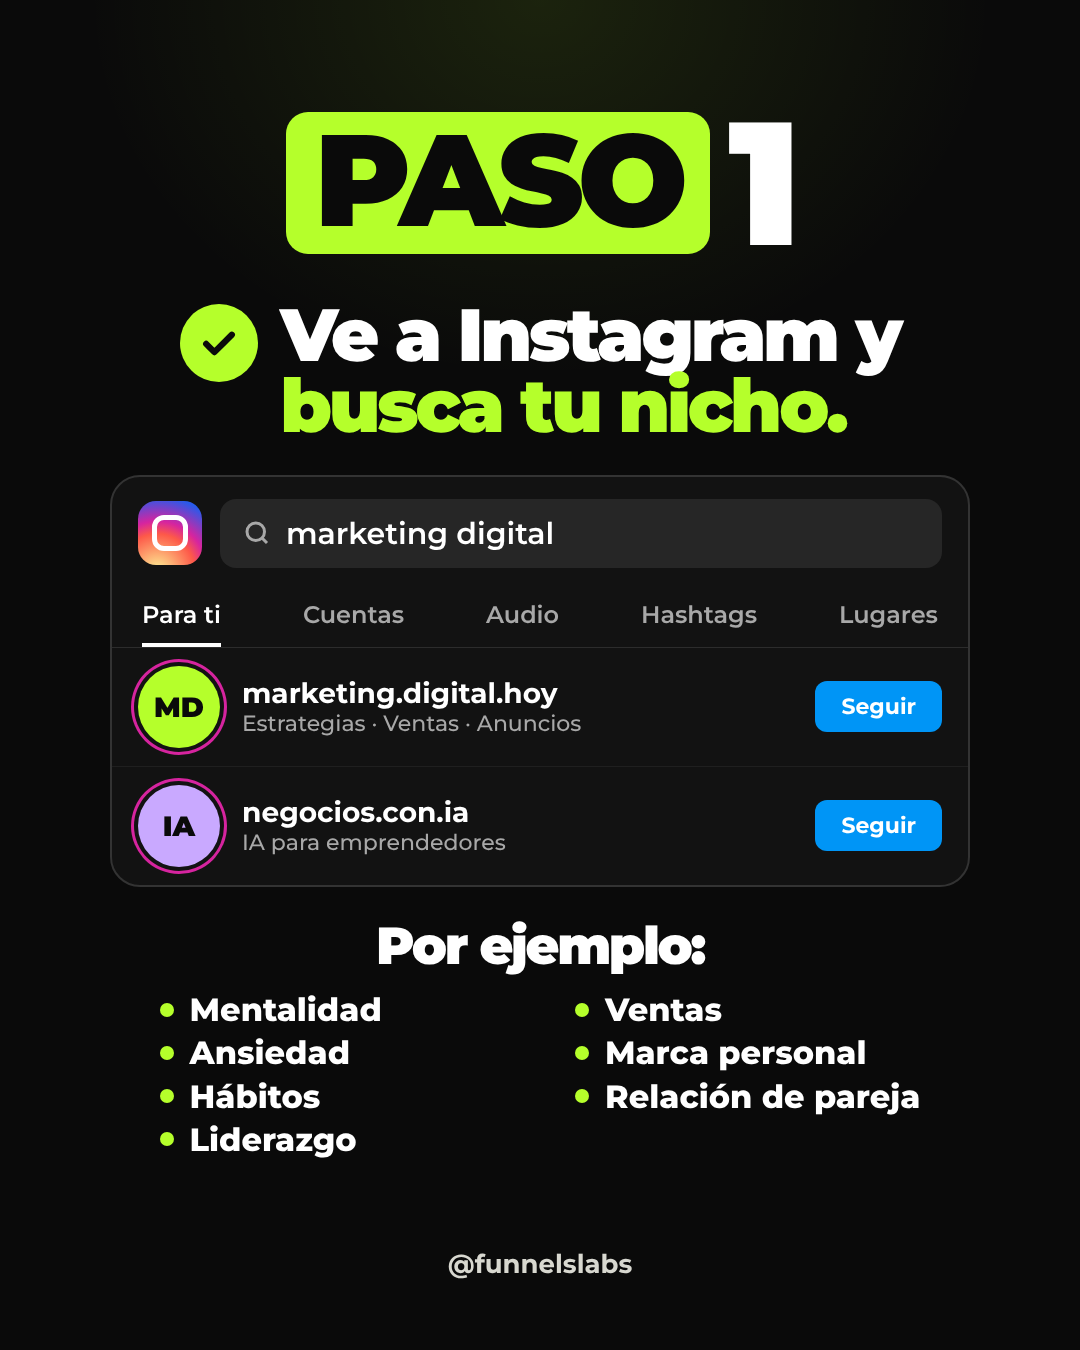
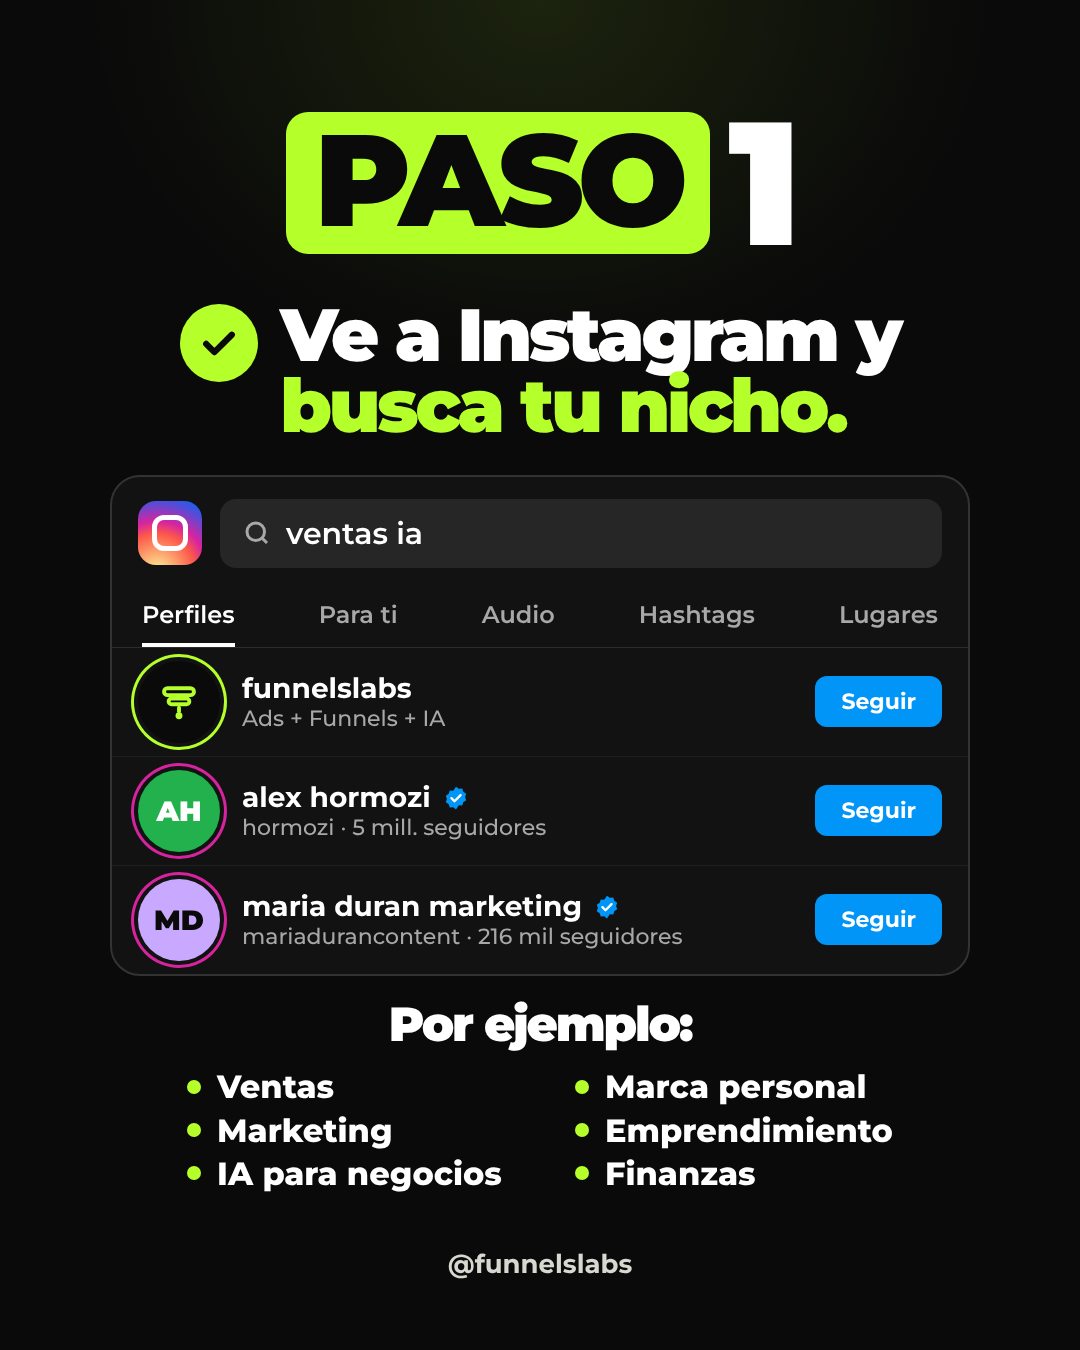
Reels virales: paso 1 con búsqueda 'ventas ia' y perfiles relevantes
Claude-Session: https://claude.ai/code/session_018d4LXHkXweDJXxfN5x99dL

diff --git a/carruseles/reels-virales/carrusel.html b/carruseles/reels-virales/carrusel.html
@@ -36,7 +36,7 @@
   .mini .tick, .mini .cross { width:46px; height:46px; margin:0; } .mini svg { width:26px; height:26px; }
 
   /* Mockup tipo Instagram (oscuro) */
-  .ig { width:860px; margin-top:34px; background:#121212; border:2px solid #333; border-radius:30px; overflow:hidden; text-align:left; }
+  .ig { flex:none; width:860px; margin-top:34px; background:#121212; border:2px solid #333; border-radius:30px; overflow:hidden; text-align:left; }
   .ig .bar { display:flex; gap:18px; align-items:center; padding:22px 26px 14px; }
   .ig .logo { width:64px; height:64px; border-radius:18px; flex:none;
               background: radial-gradient(circle at 30% 110%, #fdf497 0%, #fd5949 45%, #d6249f 60%, #285AEB 90%); position:relative; }
@@ -45,9 +45,10 @@
   .ig .search svg { width:30px; height:30px; flex:none; }
   .ig .tabs { display:flex; justify-content:space-between; padding:6px 30px 0; font-size:24px; font-weight:600; color:#a8a8a8; border-bottom:1px solid #2c2c2c; }
   .ig .tabs span { padding:12px 0 14px; } .ig .tabs span:first-child { color:#fff; border-bottom:4px solid #fff; }
-  .acc { display:flex; align-items:center; gap:22px; padding:18px 26px; border-bottom:1px solid #1f1f1f; }
+  .acc { display:flex; align-items:center; gap:22px; padding:13px 26px; border-bottom:1px solid #1f1f1f; }
   .av { width:82px; height:82px; border-radius:99px; flex:none; display:flex; align-items:center; justify-content:center; font-weight:900; font-size:28px; color:#0a0a0a;
         box-shadow:0 0 0 4px #121212, 0 0 0 7px #d6249f; }
+  .acc .v { width:26px; height:26px; vertical-align:-4px; margin-left:4px; }
   .acc b { display:block; font-size:28px; font-weight:700; } .acc small { font-size:22px; color:#a8a8a8; font-weight:500; }
   .acc .follow { margin-left:auto; background:#0095f6; color:#fff; font-weight:700; font-size:22px; padding:12px 26px; border-radius:12px; }
   .grid { display:grid; grid-template-columns:repeat(4,1fr); gap:8px; padding:12px; }
@@ -87,14 +88,15 @@
   <div class="check"><span class="tick"><svg viewBox="0 0 24 24" fill="none" stroke="#0a0a0a" stroke-width="3.4" stroke-linecap="round" stroke-linejoin="round"><path d="M5 12.5l4.5 4.5L19 7.5"/></svg></span>
     <div class="x">Ve a Instagram y<br><span class="lime">busca tu nicho.</span></div></div>
   <div class="ig">
-    <div class="bar"><span class="logo"></span><div class="search"><svg viewBox="0 0 24 24" fill="none" stroke="#a8a8a8" stroke-width="2.4"><circle cx="11" cy="11" r="7"/><path d="M20 20l-4-4"/></svg>marketing digital</div></div>
-    <div class="tabs"><span>Para ti</span><span>Cuentas</span><span>Audio</span><span>Hashtags</span><span>Lugares</span></div>
-    <div class="acc"><span class="av" style="background:var(--lime)">MD</span><div><b>marketing.digital.hoy</b><small>Estrategias · Ventas · Anuncios</small></div><span class="follow">Seguir</span></div>
-    <div class="acc" style="border:0"><span class="av" style="background:var(--lilac)">IA</span><div><b>negocios.con.ia</b><small>IA para emprendedores</small></div><span class="follow">Seguir</span></div>
+    <div class="bar"><span class="logo"></span><div class="search"><svg viewBox="0 0 24 24" fill="none" stroke="#a8a8a8" stroke-width="2.4"><circle cx="11" cy="11" r="7"/><path d="M20 20l-4-4"/></svg>ventas ia</div></div>
+    <div class="tabs"><span>Perfiles</span><span>Para ti</span><span>Audio</span><span>Hashtags</span><span>Lugares</span></div>
+    <div class="acc"><span class="av" style="background:#0a0a0a;box-shadow:0 0 0 4px #121212,0 0 0 7px #b5ff2b"><svg viewBox="0 0 40 40" width="46" height="46"><g fill="none" stroke="#b5ff2b" stroke-width="3.4" stroke-linecap="round"><rect x="7" y="8" width="26" height="6" rx="3"/><rect x="11" y="17" width="18" height="5" rx="2.5"/><path d="M20 25v3"/></g><circle cx="20" cy="32" r="3" fill="#b5ff2b"/></svg></span><div><b>funnelslabs</b><small>Ads + Funnels + IA</small></div><span class="follow">Seguir</span></div>
+    <div class="acc"><span class="av" style="background:#22b14c;color:#fff">AH</span><div><b>alex hormozi <svg class="v" viewBox="0 0 24 24"><path fill="#0095f6" d="M12 1.5l2.6 1.9 3.2-.2.9 3.1 2.7 1.8-1 3 1 3-2.7 1.8-.9 3.1-3.2-.2L12 22.5l-2.6-1.9-3.2.2-.9-3.1-2.7-1.8 1-3-1-3 2.7-1.8.9-3.1 3.2.2z"/><path d="M7.8 12.2l2.8 2.8 5.6-5.6" fill="none" stroke="#fff" stroke-width="2.2" stroke-linecap="round" stroke-linejoin="round"/></svg></b><small>hormozi · 5 mill. seguidores</small></div><span class="follow">Seguir</span></div>
+    <div class="acc" style="border:0"><span class="av" style="background:#c9a9ff">MD</span><div><b>maria duran marketing <svg class="v" viewBox="0 0 24 24"><path fill="#0095f6" d="M12 1.5l2.6 1.9 3.2-.2.9 3.1 2.7 1.8-1 3 1 3-2.7 1.8-.9 3.1-3.2-.2L12 22.5l-2.6-1.9-3.2.2-.9-3.1-2.7-1.8 1-3-1-3 2.7-1.8.9-3.1 3.2.2z"/><path d="M7.8 12.2l2.8 2.8 5.6-5.6" fill="none" stroke="#fff" stroke-width="2.2" stroke-linecap="round" stroke-linejoin="round"/></svg></b><small>mariadurancontent · 216 mil seguidores</small></div><span class="follow">Seguir</span></div>
   </div>
-  <div class="x" style="font-size:52px;margin-top:34px">Por ejemplo:</div>
+  <div class="x" style="font-size:48px;margin-top:26px">Por ejemplo:</div>
   <ul class="list" style="columns:2;column-gap:70px;display:block">
-    <li>Mentalidad</li><li>Ansiedad</li><li>Hábitos</li><li>Liderazgo</li><li>Ventas</li><li>Marca personal</li><li>Relación de pareja</li>
+    <li>Ventas</li><li>Marketing</li><li>IA para negocios</li><li>Marca personal</li><li>Emprendimiento</li><li>Finanzas</li>
   </ul>
   <div class="handle">@funnelslabs</div>
 </section>
